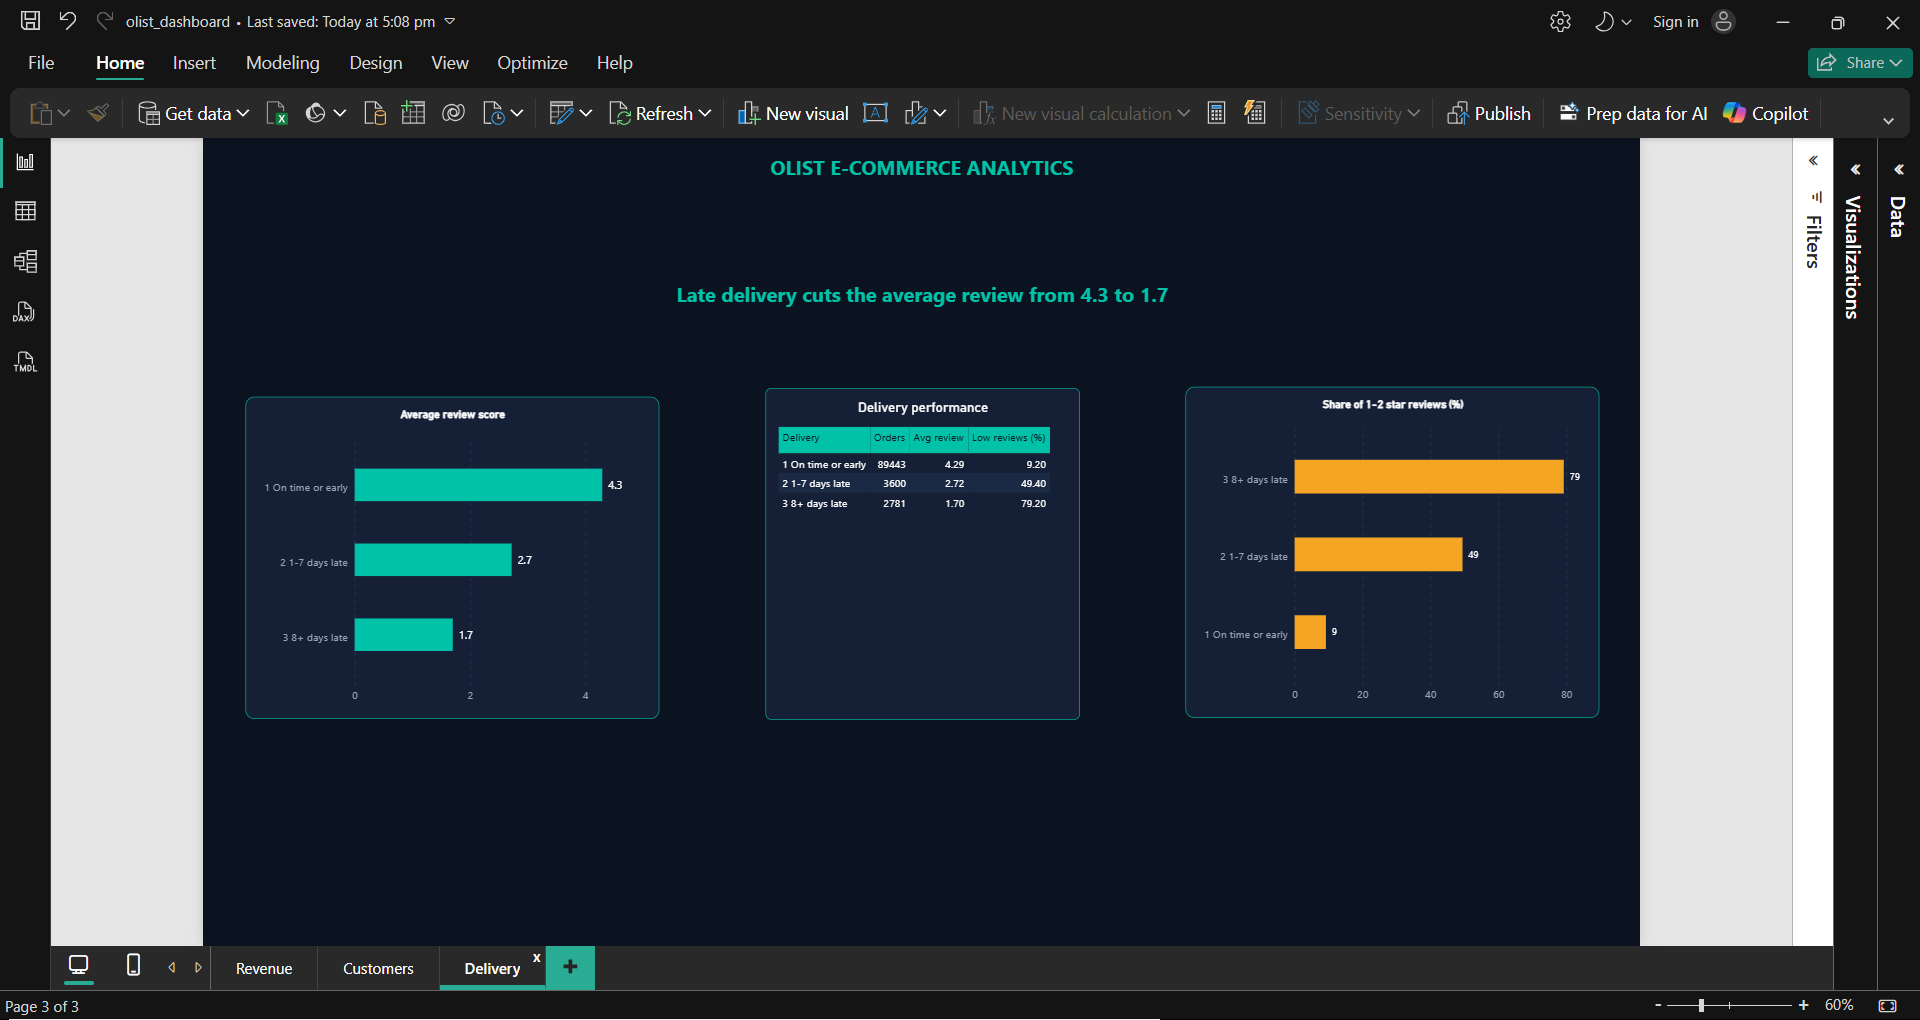
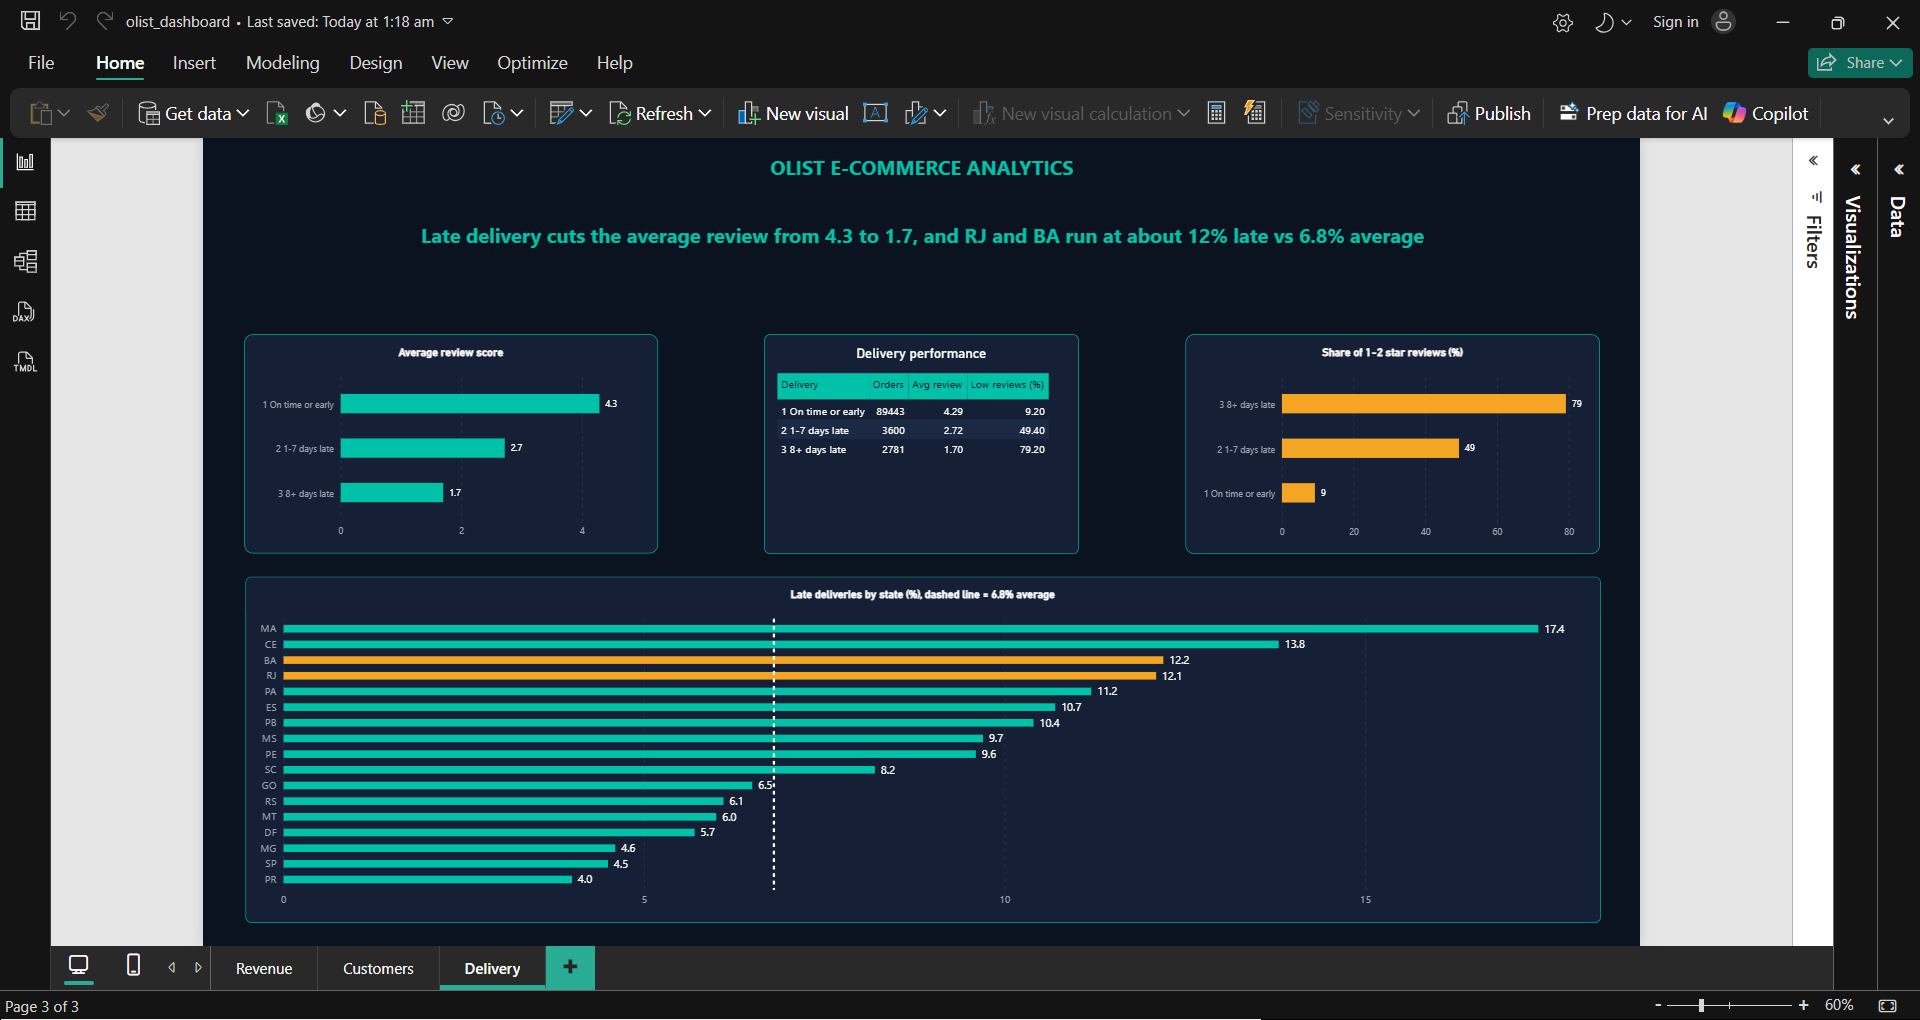
Add state-wise findings and updated Delivery screenshot

diff --git a/README.md b/README.md
@@ -89,3 +89,12 @@
 ![Delivery](docs/dashboard_delivery.png)
 [Dashboard PDF](docs/olist_dashboard.pdf)
 
+## State-wise findings
+
+- **Revenue is concentrated by state:** Sao Paulo (SP) brings 38.3% of product revenue, and SP, RJ and MG together bring 63.3%.
+- **Late delivery is not even across states:** 6.8% of delivered orders arrive after the estimate (6,534 of 96,470). Rio de Janeiro (RJ) has 12.1% late and Bahia (BA) has 12.2%, about 1.8 times the average. RJ has 12.8% of orders but 22.9% of all late orders.
+- **The biggest market is fine:** SP has the most late orders (1,820) but only 4.5% late, below average.
+- **Caveat:** state is the customer's state, and this shows where late delivery is high, not why.
+
+Queries: `sql/03_analysis/09_state_analysis.sql`. Recommendations: `docs/recommendations.md`.
+
